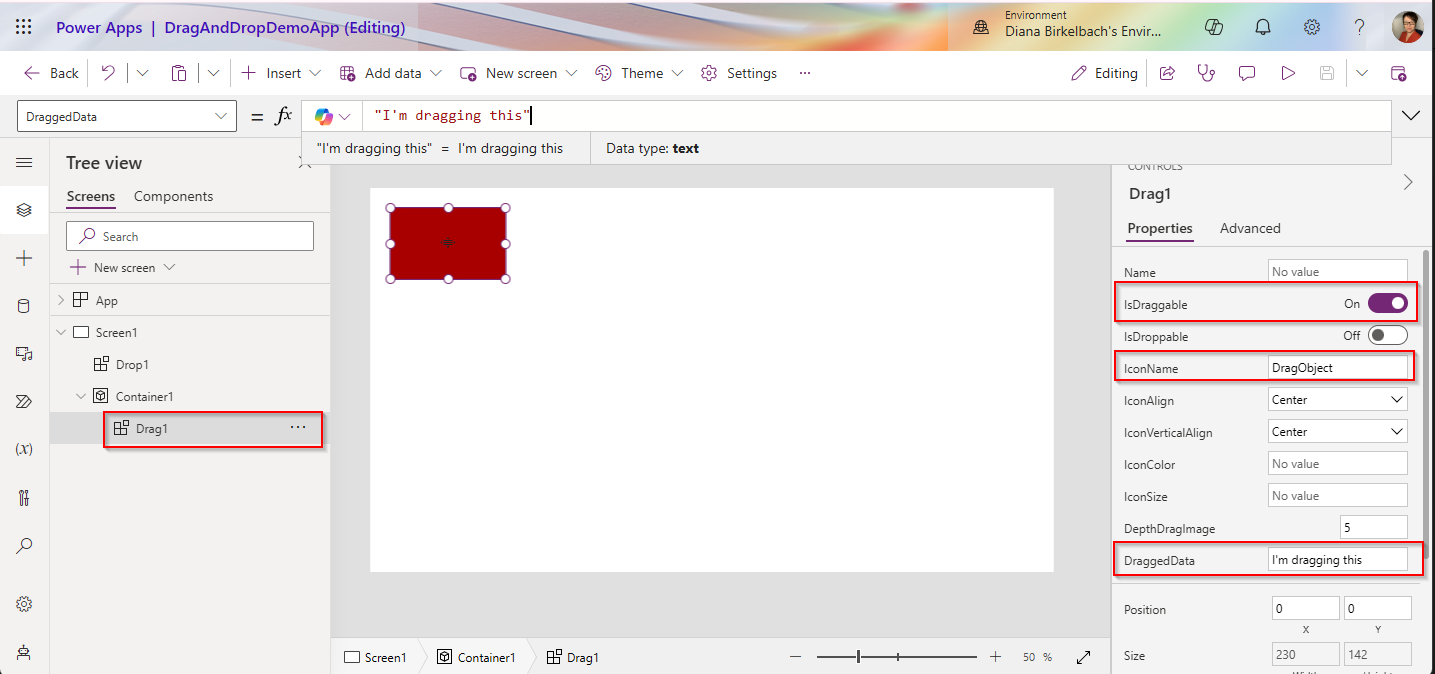
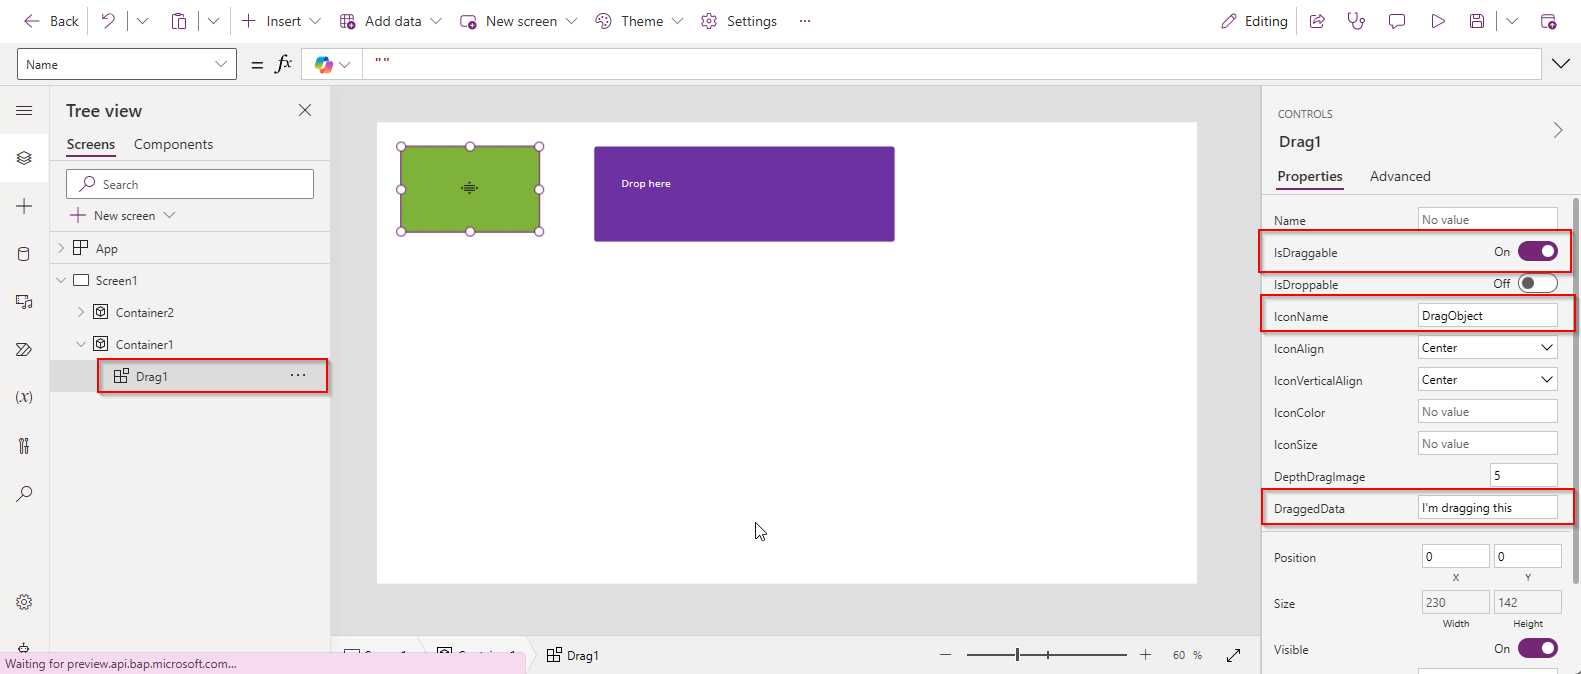
update demo

diff --git a/Docs/Readme.md b/Docs/Readme.md
@@ -45,11 +45,20 @@ We would have for drag component:
 And the Drop1 as a drop component
 ![drop](./Images/imageDemoDrop.png)
 
-Here the complete yaml
-![yaml](./Images/imageDemo.png)
+For both the drag and drop component, we need to place it on top of the other components, and cover the complete drop zone (in my case, x:0, Y:0, Width: Parent.Width, Height: Parent.Height)
+![coverTop](./Images/imageDemoDrop_OnTop.png)
+
+The app in yaml:
+
+- the drag part
+![yaml](./Images/Yaml_drag.png)
+- the drop part (the drop PCF is over a container (purple) with a label). 
+![yaml](./Images/Yaml_drop.png)
 
 After we save and publish the app, close the designer and run the app, we can drag the red area over the drop area (which is not visible in the demo.. but we could place some other elements below it).
-![action](./Images/DradAndDropPCFSample.gif)
+![action](./Images/DragAndDropPCFDemo.gif)
+
+To try out this demo, [you can find the App/Solution here](./DemoApp/Solution.xml)
 
  ## Drop over your own PCF
 
